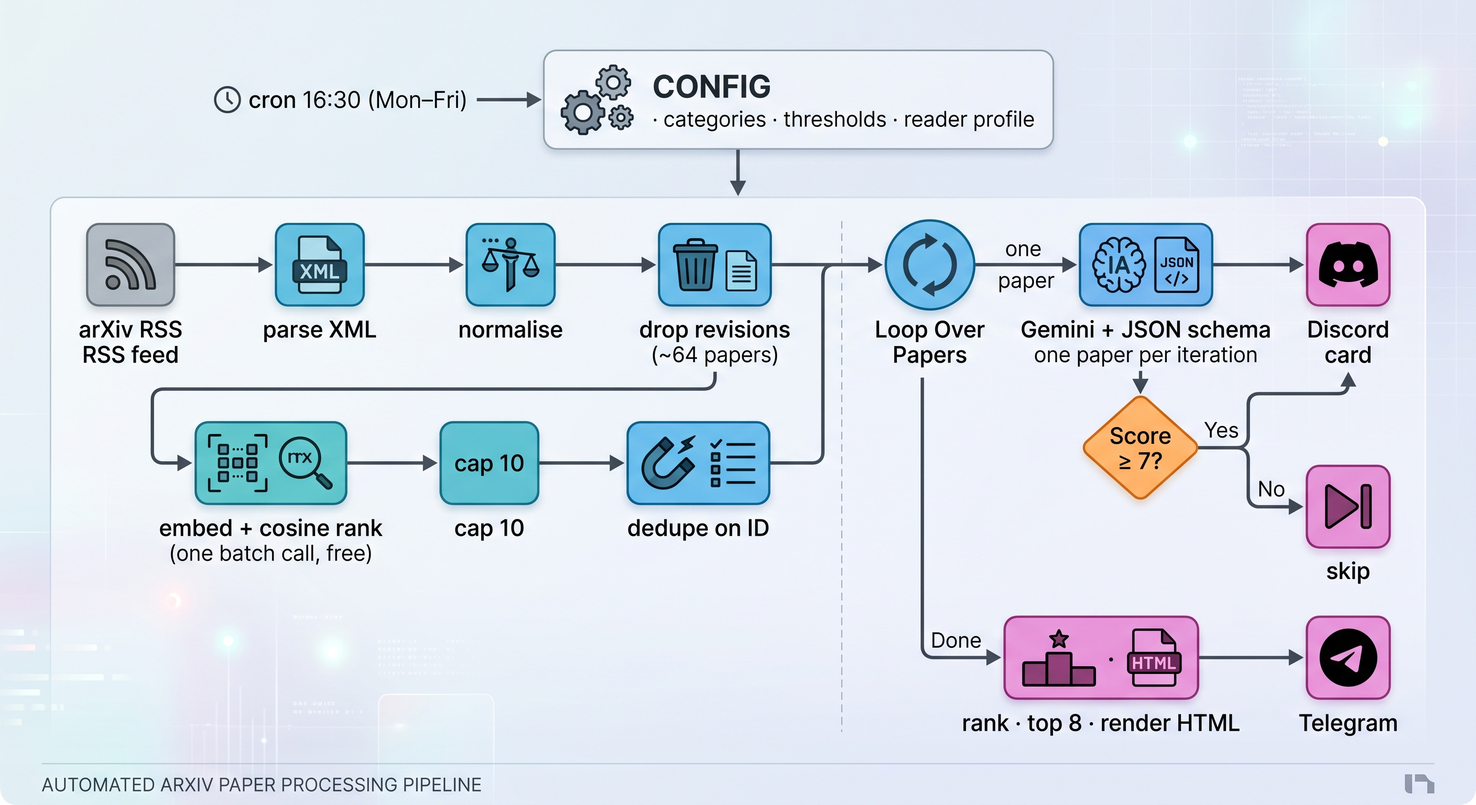
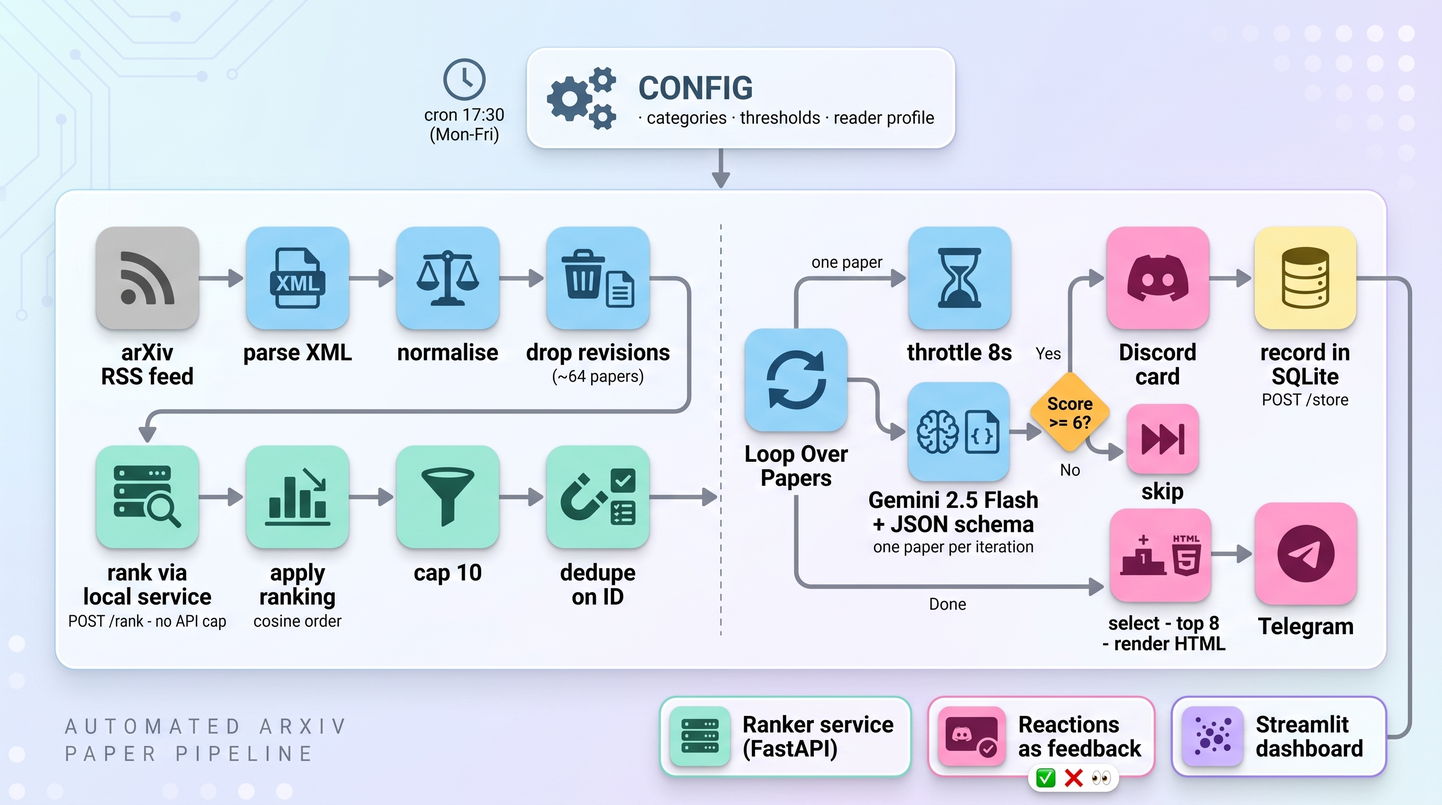
Update pipeline image and README references
Switch the README pipeline illustration link from PNG to JPG, remove the outdated diagram regeneration instructions, and refresh `docs/images/pipeline.jpg` with the new rendered diagram.

diff --git a/README.md b/README.md
@@ -8,7 +8,7 @@ Two n8n workflows and a small Python service that remembers what they did. No cu
 
 ## The pipeline
 
-![The pipeline: arXiv RSS, local rerank, Gemini scoring, Discord cards, SQLite and a Telegram digest](docs/images/pipeline.png)
+![The pipeline: arXiv RSS, local rerank, Gemini scoring, Discord cards, SQLite and a Telegram digest](docs/images/pipeline.jpg)
 
 <details>
 <summary>Same thing as text</summary>
@@ -42,25 +42,6 @@ Two n8n workflows and a small Python service that remembers what they did. No cu
                           ▼
              select · top 8 · render HTML ─────────▶  Telegram
 ```
-
-</details>
-
-<details>
-<summary>Regenerating the diagram</summary>
-
-The image is rendered from [`docs/images/pipeline.html`](docs/images/pipeline.html), which uses the
-dashboard's own palette so the two stay in the same visual language. Edit the HTML, then:
-
-```bash
-chrome --headless=new --disable-gpu --hide-scrollbars \
-       --force-device-scale-factor=2 --window-size=1680,988 \
-       --default-background-color=0b0f16ff \
-       --screenshot=docs/images/pipeline.png \
-       docs/images/pipeline.html
-```
-
-Keeping the source next to the output is the point: a diagram nobody can regenerate goes stale
-the first time the workflow changes, which is exactly what happened to the one before it.
 
 </details>
 
